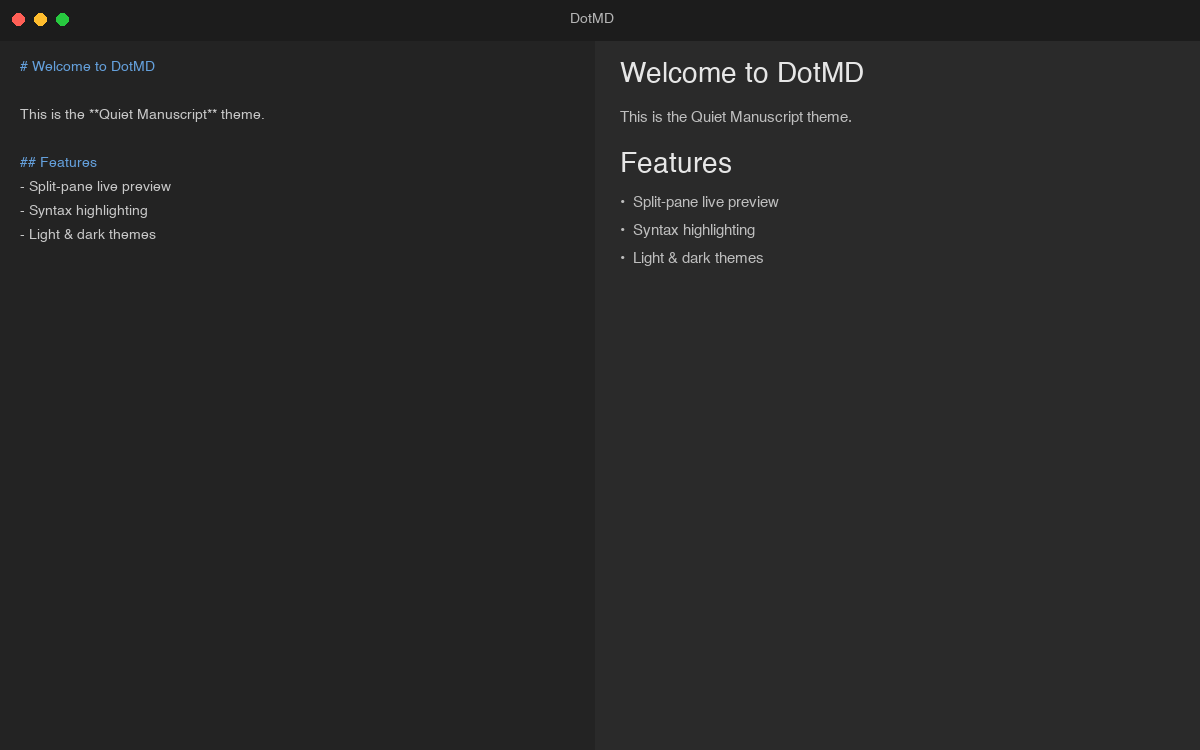
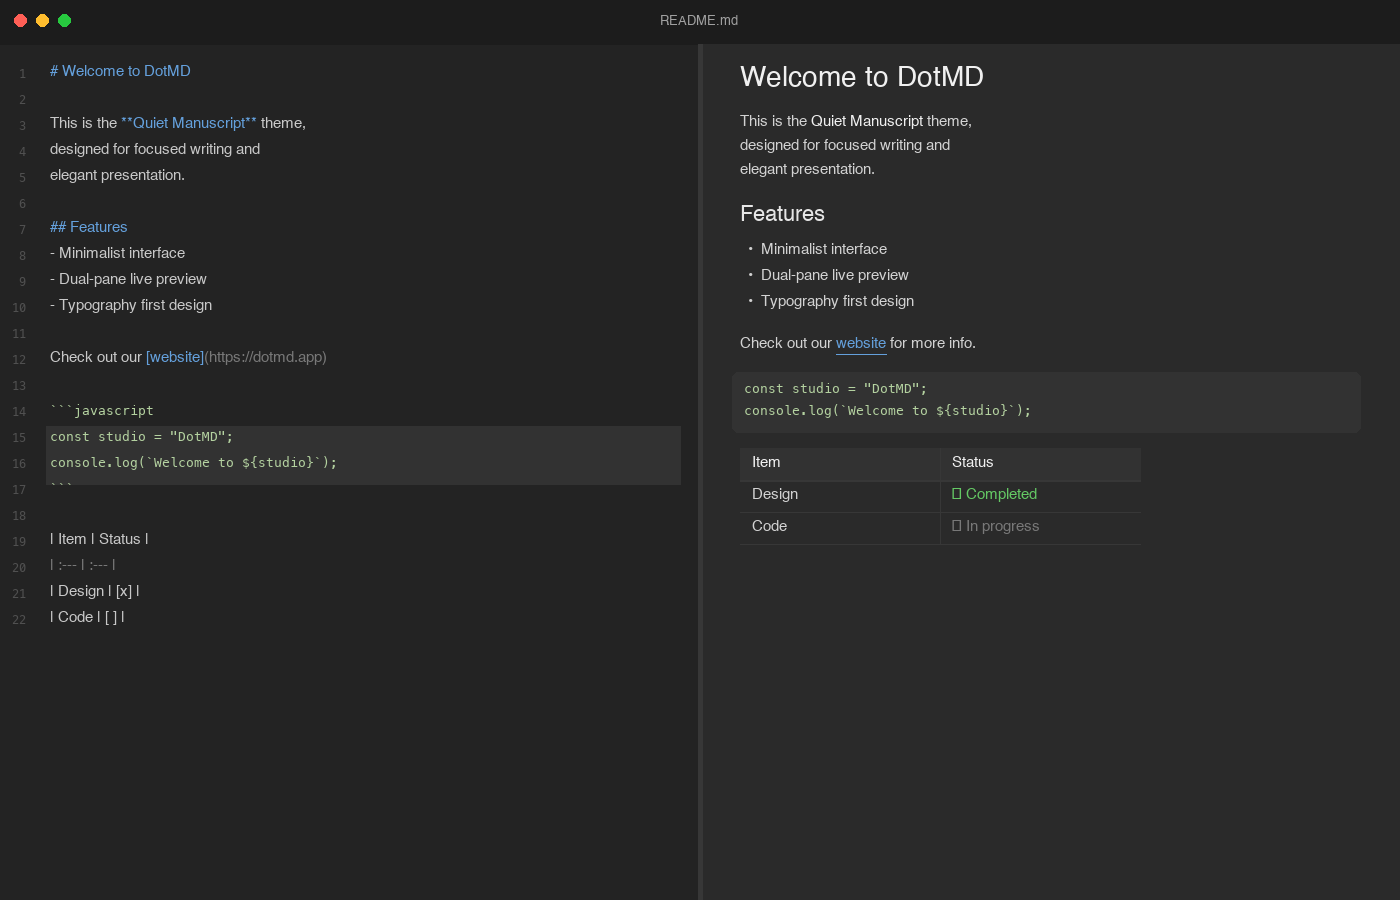
Add LICENSE, README, and landing page for v0.1.0 release
- MIT license
- README with install instructions, build from source, and checksum verification
- Landing page screenshot with rich markdown content (code blocks, tables)

diff --git a/README.md b/README.md
@@ -1,0 +1,63 @@
+# DotMD
+
+A native, free macOS markdown editor with split-pane live preview.
+
+[![License: MIT](https://img.shields.io/badge/License-MIT-blue.svg)](LICENSE)
+[![macOS](https://img.shields.io/badge/macOS-Apple%20Silicon-black.svg)](https://github.com/tribagusu/dotmd/releases/latest)
+
+![DotMD screenshot](docs/screenshot.png)
+
+## Features
+
+- **Split-pane live preview** — write markdown on the left, see rendered output instantly on the right
+- **Draggable divider** — adjust the editor/preview split to your preference
+- **Syntax highlighting** — color-coded headings, bold, code, and links in the editor
+- **Light & dark themes** — follows system preference, or override manually
+- **Open from Finder** — double-click any `.md` file to open it in DotMD
+- **Adjustable font size** — `Cmd+Plus` / `Cmd+Minus`, remembered across sessions
+- **Lightweight** — under 4 MB, launches instantly, built with Tauri + Rust
+
+## Install
+
+1. Download the latest `.dmg` from [GitHub Releases](https://github.com/tribagusu/dotmd/releases/latest)
+2. Open the DMG and drag **DotMD** to your **Applications** folder
+3. Since the app is unsigned, run this once in Terminal:
+
+```bash
+xattr -cr /Applications/DotMD.app
+```
+
+4. Open DotMD normally — you only need to do step 3 once.
+
+### Verify file integrity
+
+Each release includes a `checksums.txt` file. After downloading, verify the DMG wasn't tampered with:
+
+```bash
+shasum -a 256 ~/Downloads/DotMD_*.dmg
+```
+
+Compare the output with the hash in `checksums.txt` on the release page. They must match exactly.
+
+## Build from source
+
+Requires [Node.js](https://nodejs.org/) (18+), [Rust](https://rustup.rs/), and the [Tauri CLI](https://tauri.app/start/).
+
+```bash
+git clone https://github.com/tribagusu/dotmd.git
+cd dotmd
+npm install
+npm run tauri build
+```
+
+The built app will be at `src-tauri/target/release/bundle/macos/DotMD.app`.
+
+## Tech stack
+
+- **Frontend:** React + TypeScript + CodeMirror + react-markdown
+- **Backend:** Rust (Tauri v2)
+- **Bundling:** Vite
+
+## License
+
+[MIT](LICENSE)
